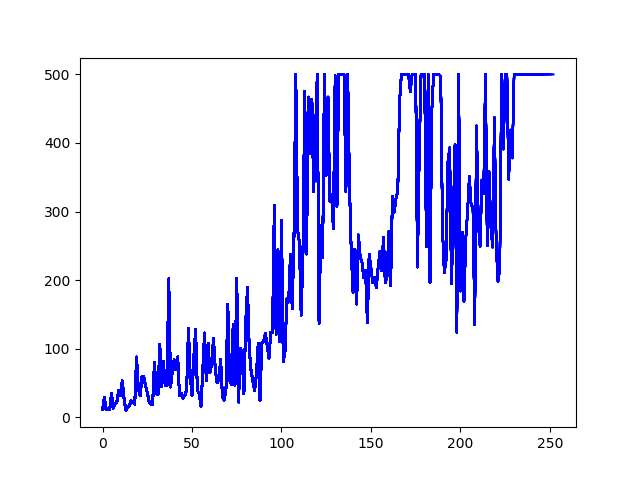
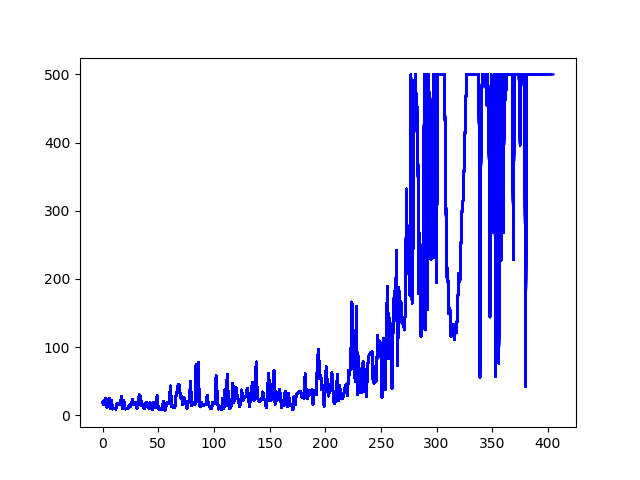
Changing data dimension after looking into keras/tf loss functions

diff --git a/cartpole/cartpole.py b/cartpole/cartpole.py
@@ -1,18 +1,14 @@
-import gym
-import numpy as np
-import pylab
 import sys
+import gym
+import pylab
 import argparse
-
-# Using tensorflow.python.keras apparently slows the convergence, why?
-
+import numpy as np
 from keras import backend as K
-from keras.layers import Input, Dense
-from keras.losses import categorical_crossentropy
 from keras.models import Model
-from keras.models import Sequential
 from keras.optimizers import Adam
+from keras.layers import Input, Dense
 from keras.utils import to_categorical
+from keras.losses import categorical_crossentropy
 
 '''
 Set up code taken from repo: https://github.com/rlcode/
@@ -35,9 +31,11 @@ def get_discounted_rewards(r, gamma=0.99):
         new_val = val + prior * gamma
         out.append(new_val)
         prior = new_val
-    out = np.array(out[::-1])
-    return out.reshape(out.shape[0], 1)
+    return np.array(out[::-1])
 
+    # Send an extra time-axis dimension if working with time-series data.
+    # out = np.array(out[::-1])
+    # return out.reshape(out.shape[0], 1)
 
 def run(render):
     env = gym.make('CartPole-v1')
@@ -58,15 +56,23 @@ def run(render):
 
         # Keras implementation of http://rail.eecs.berkeley.edu/deeprlcourse/static/slides/lec-5.pdf
         # Mostly works within 500 episodes, but 1000 given for safety
+        # (N, ) <- (N, C), (N, C)
         neg_log_prob = categorical_crossentropy(y_true, y_pred)
+
+        # (N, ) <- (N, ), (N, )
         weighted_neg_log_prob = neg_log_prob * dis_rewards
-        loss = K.mean(weighted_neg_log_prob)
+        
+        # (N, ) <- (N, )
+        loss = K.mean(weighted_neg_log_prob, axis=-1)
 
-        # Implementations out there that work at times, why?
+        # ---
+        # Other implementations out there that work too, why?
+        # [Update 19/07/19]
+        # Essentially doing the mean operation does nothing extra because weighted_neg_log_prob
+        # is a list with real numbers. Thus, averaging over the last axis does not do anything extra.
+        # Necessary when we are dealing with time series data. Thus, let it be.
+        # ---
         # loss = weighted_neg_log_prob
-
-        # Implementations out there that do not work
-        # loss = K.sum(weighted_neg_log_prob)
 
         return loss
 
